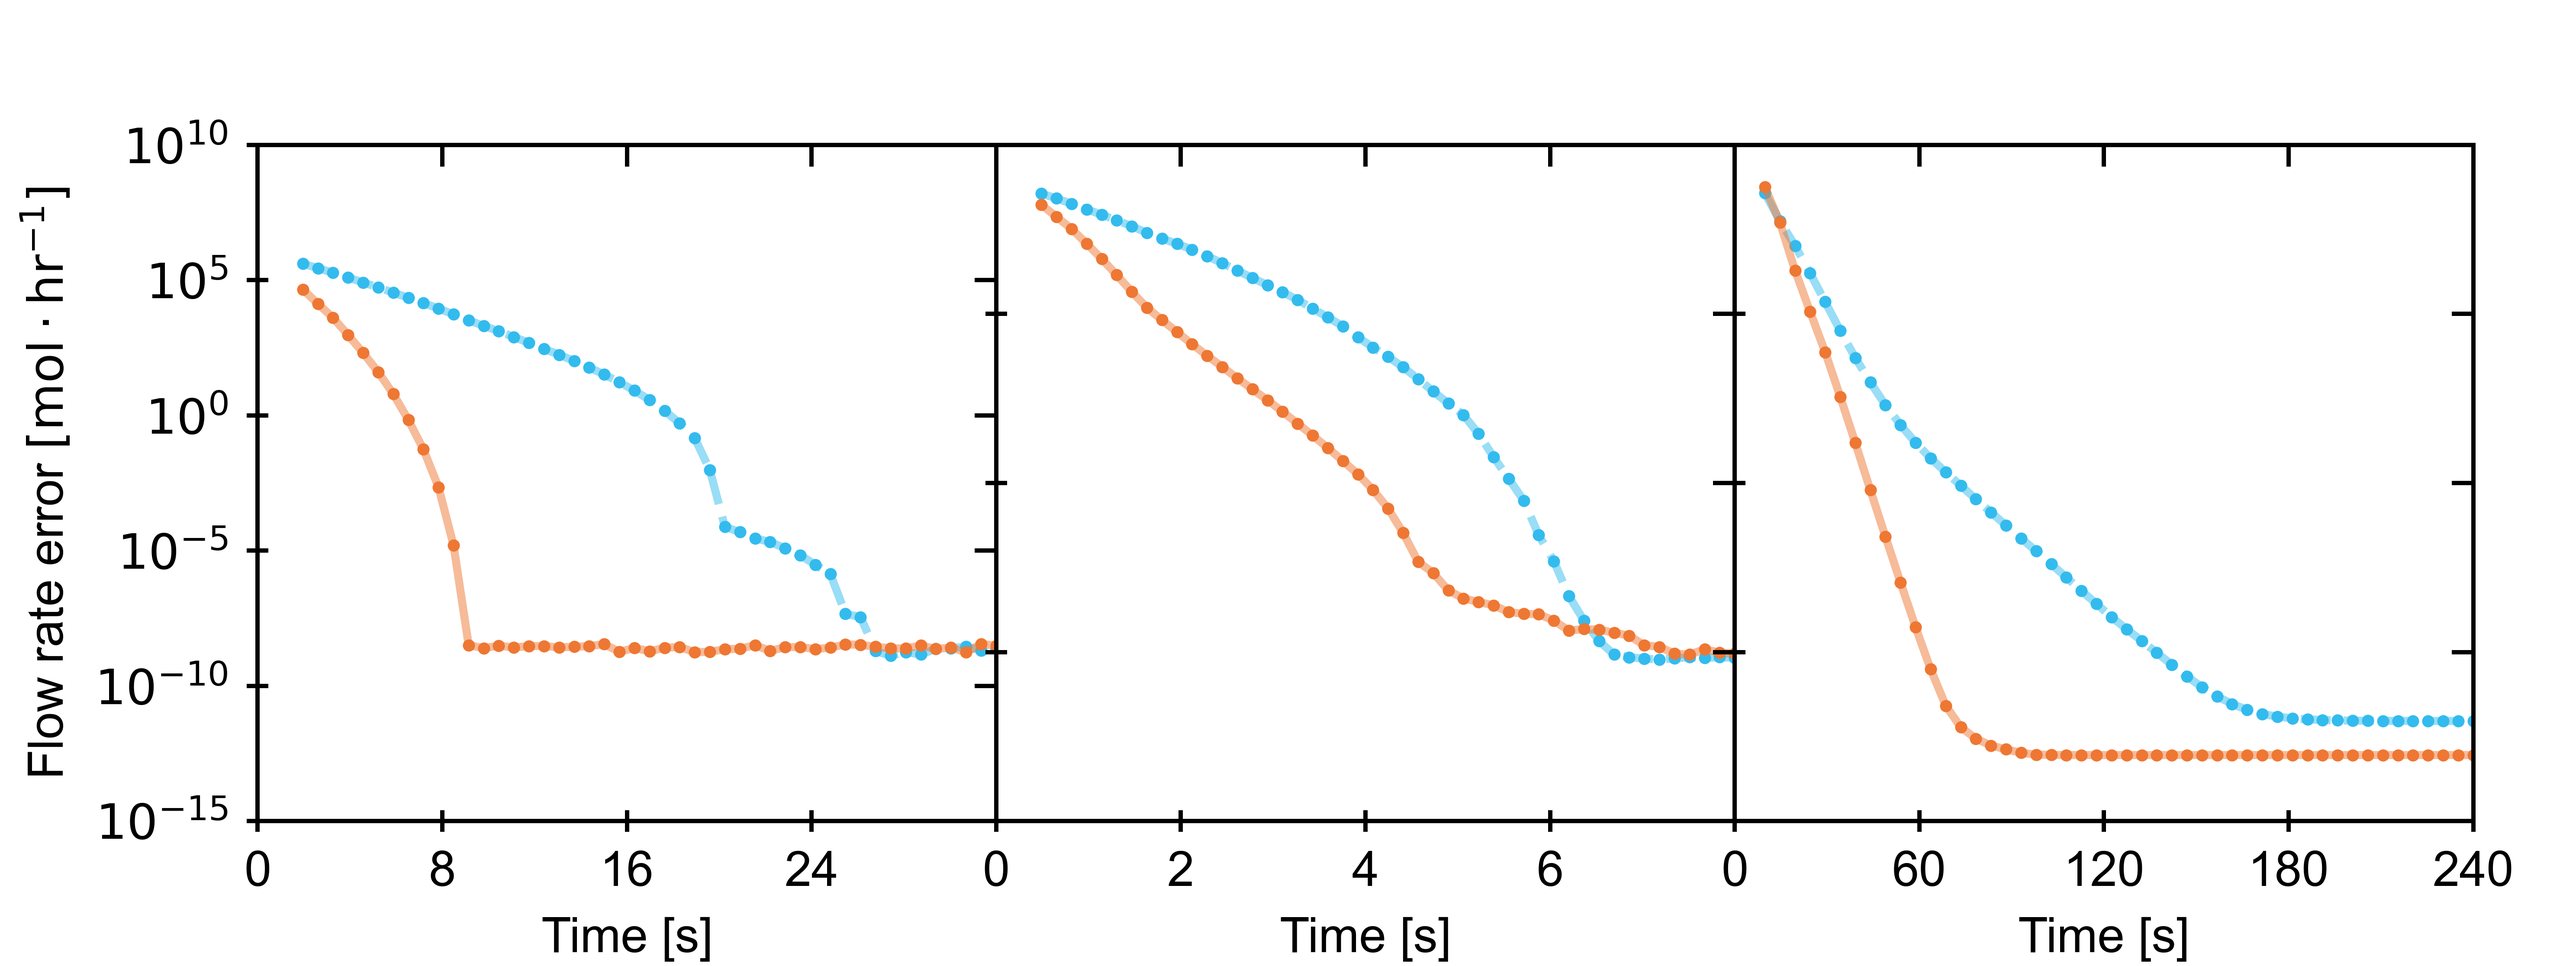
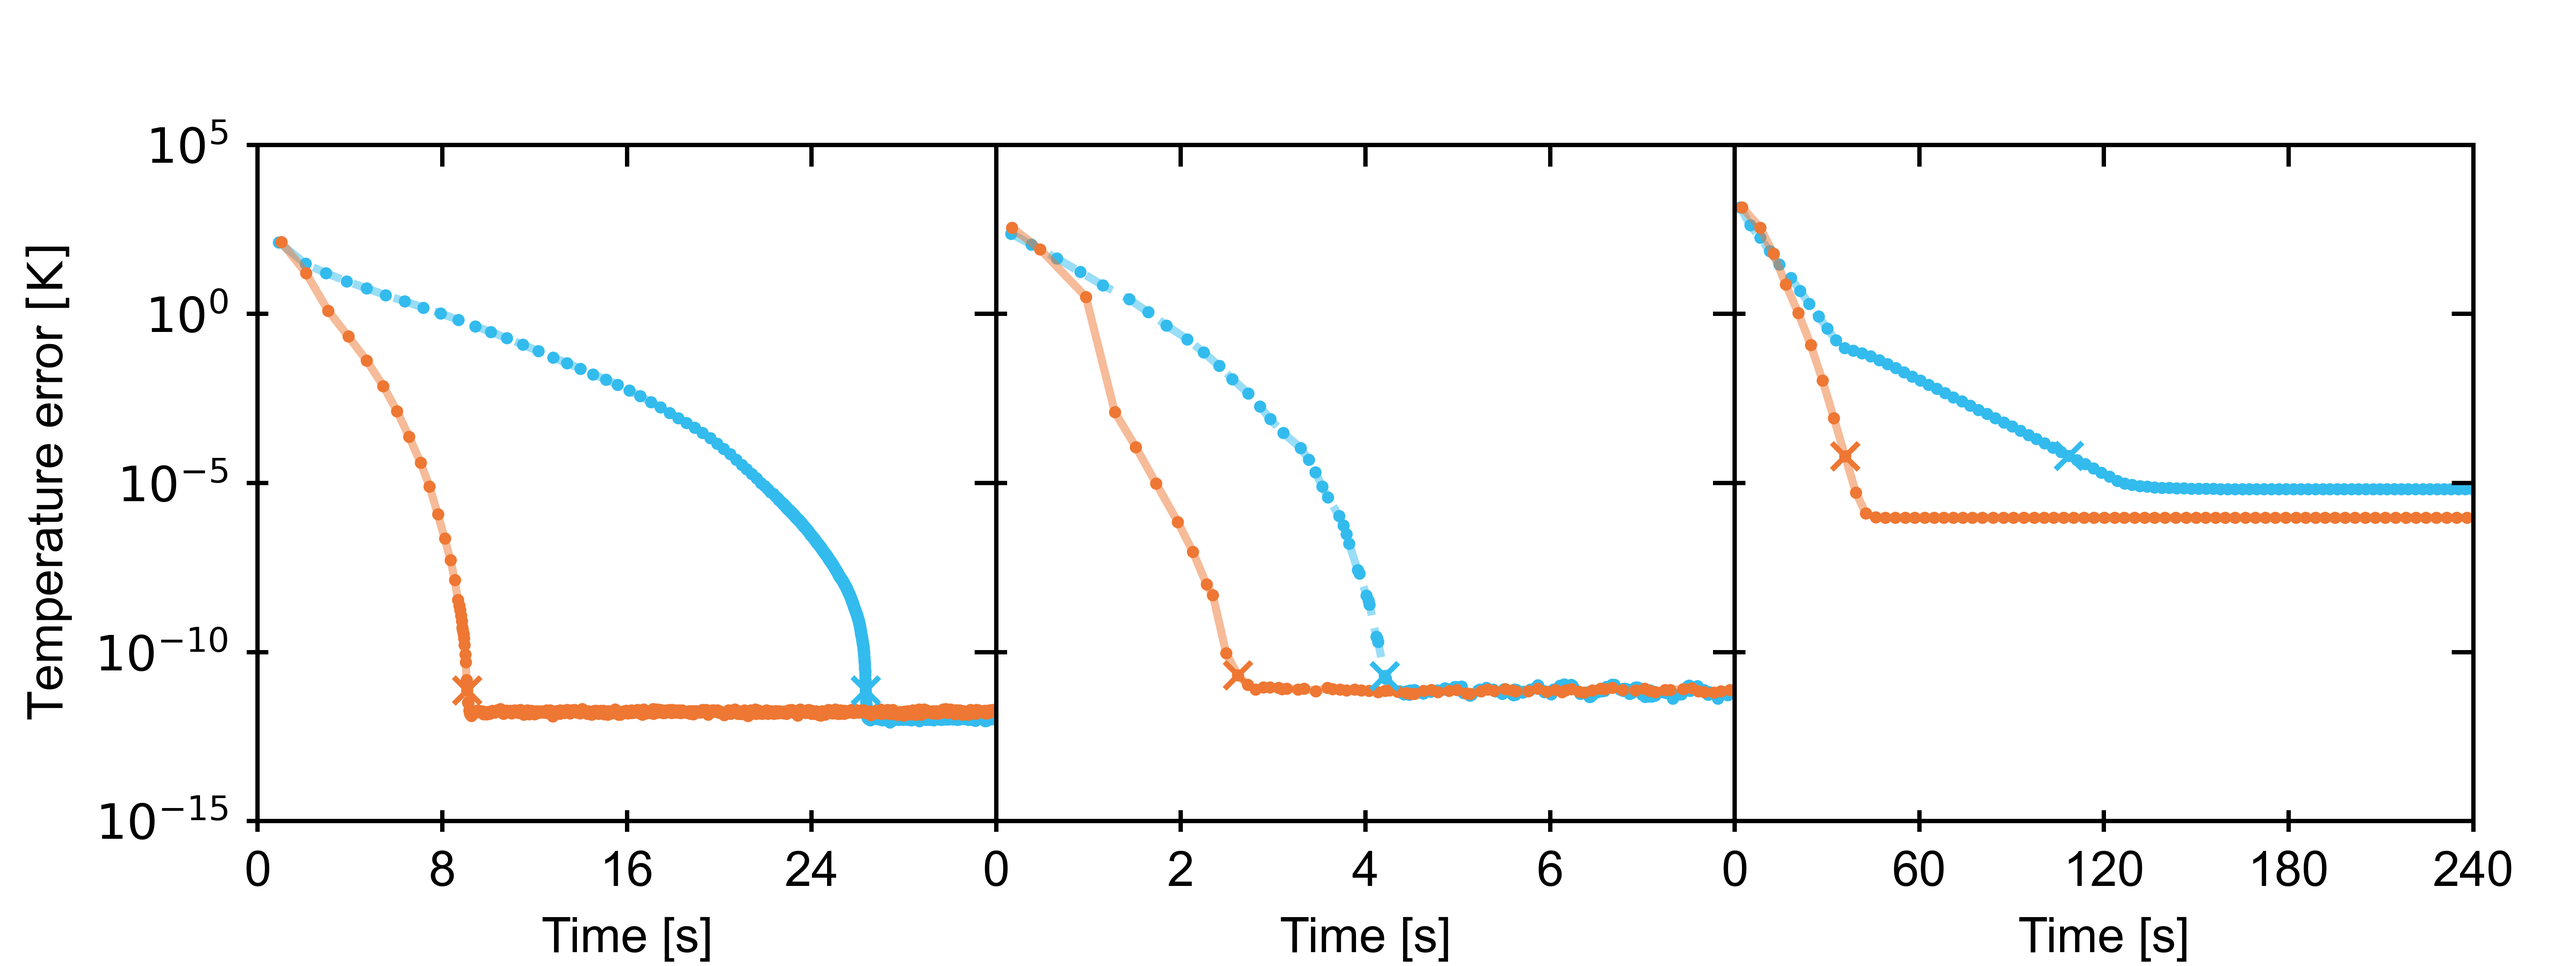
more work on PO

diff --git a/benchmark/profile.py b/benchmark/profile.py
@@ -22,6 +22,10 @@ import pickle
 import thermosteam as tmo
 from scipy.integrate import romb
 from scipy.optimize import minimize
+from warnings import warn
+from biosteam import report
+import openpyxl
+import json
 
 __all__ = (
     'BenchmarkModel',
@@ -32,6 +36,8 @@ __all__ = (
     'register',
     'all_systems',
     'test_convergence',
+    'save_stream_tables_and_specifications',
+    'save_simulation_errors',
     'Tracker'
 )
 
@@ -229,10 +235,17 @@ system_convergence_times = {}
 system_tickmarks = {}
 system_labels = {}
 system_yticks = {}
+try:
+    with open('system_stages.json') as f: system_stages = json.load(f)
+except:
+    system_stages = {}
 
 def register(name, title, time, tickmarks, label, yticks=None):
     f = getattr(systems, 'create_system_' + name, None) or getattr(systems, 'create_' + name + '_system')
     if yticks is None: yticks = [(-10, -5, 0, 5), (-10, -5, 0, 5)]
+    if name not in system_stages: 
+        sys = f(None)
+        system_stages[name] = len(sys.stages)
     all_systems[name] = f
     system_titles[name] = title
     system_convergence_times[name] = time
@@ -247,7 +260,8 @@ def register(name, title, time, tickmarks, label, yticks=None):
 register(
     'acetic_acid_simple', 'Subsystem',
     40, [0, 8, 16, 24, 32], 'AcOH\npartial\ndewatering',
-    [(-15, -10, -5, 0, 5, 10), (-15, -10, -5, 0, 5, 10)],
+    [(-15, -10, -5, 0, 5), (-15, -10, -5, 0, 5)],
+    # [(-15, -10, -5, 0, 5, 10), (-15, -10, -5, 0, 5, 10)],
 )
 register(
     'acetic_acid_complex_decoupled', 'Shortcut system',
@@ -256,8 +270,9 @@ register(
 )
 register(
     'acetic_acid_complex', 'Rigorous system',
-    500, [0, 60, 120, 180, 240], 'AcOH\nindustrial\ndewatering', 
-    [(-5, -2.5, 0, 2.5, 5), (-8, -5, -2, 1, 4)],
+    240, [0, 60, 120, 180, 240], 'AcOH\nindustrial\ndewatering', 
+    [(-15, -10, -5, 0, 5), (-15, -10, -5, 0, 5)],
+    # [(-5, -2.5, 0, 2.5, 5), (-8, -5, -2, 1, 4)],
 )
 # register(
 #     'alcohol_narrow_flash', 'Alcohol flash narrow',
@@ -269,12 +284,12 @@ register(
 # )
 register(
     'butanol_purification', 'Butanol purification',
-    1, [0, 0.2, 0.4, 0.6, 0.8, 1], 'BtOH\nseparation',
+    1, [0, 0.1, 0.2, 0.3, 0.4, 0.5], 'BtOH\nseparation',
     [(-15, -10, -5, 0, 5), (-15, -10, -5, 0, 5)],
 )
 register(
     'ethanol_purification', 'Ethanol purification',
-    0.2, [0, 0.05, 0.1, 0.15, 0.2], 'EtOH\nseparation',
+    0.2, [0, 0.03, 0.06, 0.09, 0.12], 'EtOH\nseparation',
     [(-15, -10, -5, 0, 5), (-15, -10, -5, 0, 5)],
 )
 # register(
@@ -291,9 +306,11 @@ register(
 # )
 register(
     'haber_bosch_process', 'Haber-Bosch',
-    0.03, [0, 0.007, 0.014, 0.021, 0.028], 'Haber-Bosch\nammonia\nproduction',
+    0.03, [0, 0.004, 0.010, 0.015, 0.020], 'Haber-Bosch\nammonia\nproduction',
     [[-10, -7.5, -5, -2.5, 0], [-10, -7.5, -5, -2.5, 0]],
 )
+
+with open('system_stages.json', 'w') as file: json.dump(system_stages, file)
 
 # %% Testing
 
@@ -339,16 +356,76 @@ def test_convergence(systems=None, alg=None, maxiter=None):
                             print(f'- Multiple steady stages for {s_sm}, {s_sm.sink.ins.index(s_sm)}-{s_sm.sink}: sm-{actual} po-{value}')
     return outs
 
+# %% Stream tables and specifications
+
+def save_stream_tables_and_specifications(systems=None):
+    if systems is None: systems = list(all_systems)
+    for sys in systems:
+        po = Tracker(sys, 'phenomena oriented')
+        for i in range(50): po.run()
+        with po.system.stage_configuration() as conf:
+            for i in conf.streams:
+                if i.ID == '': i.ID = ''
+        name = system_labels[sys].replace('\n', ' ')
+        file_name = f'{name}.xlsx'
+        file = os.path.join(simulations_folder, file_name)
+        po.system.save_report(
+            file=file,
+            sheets={
+                'Flowsheet',
+                'Stream table',
+                'Specifications',
+                'Reactions',
+            },
+            stage=True,
+        )
+
+# %% Simulation errors
+
+def save_simulation_errors(systems=None):
+    if systems is None: systems = list(all_systems)
+    values = []
+    for sys in systems:
+        file_name = f"{sys}_steady_state"
+        file = os.path.join(simulations_folder, file_name)
+        values.append([
+            Convergence(
+                all_systems[sys](i), file
+            ).benchmark
+            for i in ('phenomena-oriented', 'sequential-modular')
+        ])
+    df = pd.DataFrame(
+        values, 
+        [system_labels[i].replace('\n', ' ') for i in systems], 
+        ('Phenomena-based', 'Sequential modular')
+    )
+    file_name = 'Simulation times.xlsx'
+    file = os.path.join(simulations_folder, file_name)
+    df.to_excel(file)
+    return df
+
+
+# %% Convergence time
+
+def convergence_time(sm, po):
+    ysm = np.array(sm)
+    ypo = np.array(po)
+    cutoff = ysm.min() + 1
+    sm_index = sum(ysm > cutoff)
+    po_index = sum(ypo > cutoff)
+    return sm['Time'][sm_index], po['Time'][po_index]
+
+
 # %% Profiling and benchmarking utilities
 
 class ErrorPoint(NamedTuple):
     time: float; error: float
 
-default_steady_state_cutoff = 2
+default_steady_state_cutoff = 1
     
 def steady_state_error(profile, steady_state_cutoff=None):
     if steady_state_cutoff is None: steady_state_cutoff = default_steady_state_cutoff
-    minimum_error = np.log10(10 ** profile['Component flow rate error'][-1] + 10 ** profile['Temperature error'][-1])
+    minimum_error = np.log10(10 ** profile['Component flow rate error'][-1] + 10 ** profile['Temperature error'][-1]) 
     return minimum_error + steady_state_cutoff
     
 def benchmark(profile, steady_state_error=None):
@@ -356,9 +433,9 @@ def benchmark(profile, steady_state_error=None):
     time = profile['Time']
     error = np.log10(10 ** profile['Component flow rate error'] + 10 ** profile['Temperature error'])
     if np.isnan(error).any(): breakpoint()
-    error = interpolate.interp1d(error, time, bounds_error=False)(steady_state_error)
+    time = interpolate.interp1d(error, time, bounds_error=False)(steady_state_error)
     if np.isnan(error).any(): breakpoint()
-    return error 
+    return time 
     
 class Convergence:
     
@@ -381,6 +458,8 @@ class Convergence:
             flows = np.array(sum([i._imol._parent.data.rows for i in streams], []))
             Ts = np.array([i.T for i in streams])
             results = flows, Ts
+            # cfe, te = zip(*[i._simulation_error() for i in all_stages])
+            system.run()
             cfe, te = zip(*[i._simulation_error() for i in all_stages])
             benchmark = sum(cfe) + sum(te)
             with open(file, 'wb') as f: pickle.dump((*results, benchmark), f)
@@ -733,12 +812,15 @@ def division_mean_std(xdx, ydy):
 
 # %% Benchmark plot
 
-def plot_benchmark(systems=None, exclude=None, N=5, load=True, save=True):
+def plot_benchmark(systems=None, exclude=None, N=5, load=True, save=True, sort_by_stage=True, label_stages=True):
     if systems is None: systems = list(all_systems)
     if exclude is not None: systems = [i for i in systems if i not in exclude]
+    if sort_by_stage: systems = sorted(systems, key=lambda x: system_stages[x])
     n_systems = len(systems)
     results = np.zeros([n_systems, 3])
     Ns = N * np.ones(n_systems, int)
+    index = []
+    values = []
     for m, sys in enumerate(systems):
         N = Ns[m]
         time = system_convergence_times[sys]
@@ -804,11 +886,18 @@ def plot_benchmark(systems=None, exclude=None, N=5, load=True, save=True):
                 po_name = f'po_{time}_{sys}_profile.npy'
                 file = os.path.join(simulations_folder, po_name)
                 with open(file, 'wb') as f: pickle.dump(pos, f)
-        pos = pos[1:]
-        sms = sms[1:]
         cutoff = max([steady_state_error(i) for i in sms + pos])
         sms = np.array([benchmark(i, cutoff) for i in sms])
         pos = np.array([benchmark(i, cutoff) for i in pos])
+        values.append(pos)
+        name = system_labels[sys].replace('\n', ' ')
+        index.append(
+            (name, 'Phen.')
+        )
+        values.append(sms)
+        index.append(
+            (name, 'Seq. mod.')
+        )
         pos_mean_std = [np.mean(pos), np.std(pos)]
         sms_mean_std = [np.mean(sms), np.std(sms)]
         mean, std = division_mean_std(pos_mean_std, sms_mean_std)
@@ -826,9 +915,18 @@ def plot_benchmark(systems=None, exclude=None, N=5, load=True, save=True):
     # Assume only time matters from here on
     # for i, (sm, po) in enumerate(system_results):
     #     results[i] = uncertainty_percent(po['Time'], sm['Time'])
+    df = pd.DataFrame(
+        values, 
+        index=pd.MultiIndex.from_tuples(index),
+        columns=[str(i) for i in range(N)], 
+    )
+    file_name = 'Simulation times.xlsx'
+    file = os.path.join(simulations_folder, file_name)
+    df.to_excel(file)
+    
     n_rows = 1
     n_cols = 1
-    fs = 10
+    fs = 8
     bst.set_font(fs)
     bst.set_figure_size()
     fig, ax = plt.subplots(n_rows, n_cols)
@@ -842,7 +940,10 @@ def plot_benchmark(systems=None, exclude=None, N=5, load=True, save=True):
     yticks = (0, 25, 50, 75, 100, 125)
     yticklabels = [f'{i}%' for i in yticks]
     xticks = list(range(n_systems))
-    xticklabels = [system_labels[sys] for sys in systems]
+    if label_stages:
+        xticklabels = [system_labels[sys] + f'\n[{system_stages[sys]} stages]' for sys in systems]
+    else:
+        xticklabels = [system_labels[sys] for sys in systems]
     sm_index, = np.where(results[:, -1])
     po_index, = np.where(~results[:, -1].astype(bool))
     plt.errorbar([xticks[i] for i in sm_index], results[sm_index, 0], 
@@ -851,7 +952,7 @@ def plot_benchmark(systems=None, exclude=None, N=5, load=True, save=True):
     plt.errorbar([xticks[i] for i in po_index], results[po_index, 0], yerr=results[po_index, 1], color=cpo,
                  marker='s', linestyle='', capsize=5, capthick=1.5, ecolor=black)
     plt.axhline(y=100, color='grey', ls='--', zorder=-1)
-    plt.ylabel('Simulation time [%]')
+    plt.ylabel('Relative simulation time [%]')
     bst.utils.style_axis(
         ax, xticks=xticks, yticks=yticks,
         xticklabels=xticklabels,
@@ -867,11 +968,12 @@ def plot_benchmark(systems=None, exclude=None, N=5, load=True, save=True):
 
 # %%  Profile plot
 
-def dct_mean_profile(dcts: list[dict], keys: list[str], ub: float, n=50):
-    mean = {i: np.zeros(n) for i in keys}
-    tmin = np.min([np.min(i['Time']) for i in dcts])
-    t = np.linspace(0, ub, n)
-    goods = [np.zeros(n) for i in range(len(keys))]
+def dct_mean_profile(dcts: list[dict], keys: list[str], ub: float):
+    tmin = np.mean([np.min(i['Time']) for i in dcts])
+    size = np.min([len(i['Time']) for i in dcts])
+    t = np.array([i['Time'][:size] for i in dcts]).mean(axis=0)
+    mean = {i: np.zeros(size) for i in keys}
+    goods = [np.zeros(size) for i in range(len(keys))]
     for dct in dcts:
         for i, good in zip(keys, goods): 
             x = dct['Time']
@@ -893,29 +995,30 @@ def dct_mean_std(dcts: list[dict], keys: list[str]):
     return {i: (values[i].mean(), values[i].std()) for i in keys}
 
 def plot_profile(
-        systems=None, N=1, load=True, save=True
+        systems=None, N=1, load=True, save=True,
+        T=False,
     ):
     if systems is None: systems = list(all_systems)
     fs = 9
     bst.set_font(fs)
     keys = (
-        'Component flow rate error',
-        # 'Temperature error',
-        # 'Component flow rate',
-        # 'Stream temperature',
-        # 'Stripping factor',
-        # 'Material balance',
-        # 'Energy balance',
+        'Temperature error' if T else 'Component flow rate error' ,
     )
+    # 'Temperature error',
+    # 'Component flow rate',
+    # 'Stream temperature',
+    # 'Stripping factor',
+    # 'Material balance',
+    # 'Energy balance',
     units = (
-        r'$[\mathrm{mol} \cdot \mathrm{hr}^{\mathrm{-1}}]$',
-        # r'$[\mathrm{K}]$',
-        # r'$[\mathrm{mol} \cdot \mathrm{hr}^{\mathrm{-1}}]$',
-        # r'$[\mathrm{K}]$',
-        # r'$[-]$',
-        # r'$[\mathrm{mol} \cdot \mathrm{hr}^{\mathrm{-1}}]$',
-        # r'$[\mathrm{K}]$',
+        r'$[\mathrm{K}]$' if T else r'$[\mathrm{mol} \cdot \mathrm{hr}^{\mathrm{-1}}]$',
     )
+    # r'$[\mathrm{K}]$',
+    # r'$[\mathrm{mol} \cdot \mathrm{hr}^{\mathrm{-1}}]$',
+    # r'$[\mathrm{K}]$',
+    # r'$[-]$',
+    # r'$[\mathrm{mol} \cdot \mathrm{hr}^{\mathrm{-1}}]$',
+    # r'$[\mathrm{K}]$',
     n_rows = len(units)
     n_cols = len(systems)
     if n_cols >= 2: 
@@ -985,8 +1088,16 @@ def plot_profile(
         sms = sms[1:]
         tub = system_tickmarks[sys][-1]
         tub = min(tub, min([dct['Time'][-1] for dct in sms]), min([dct['Time'][-1] for dct in pos]))
+        for dct in sms + pos:
+            for key in dct:
+                if key == 'Time': continue
+                dct[key] = 10 ** np.array(dct[key])
         sm = dct_mean_profile(sms, keys, tub)
         po = dct_mean_profile(pos, keys, tub)
+        for dct in (sm, po):
+            for key in dct:
+                if key == 'Time': continue
+                dct[key] = np.log10(dct[key])
         csm = Color(fg='#33BBEE').RGBn
         cpo = Color(fg='#EE7733').RGBn
         labels = {
@@ -1014,6 +1125,9 @@ def plot_profile(
             ypo = np.array(po[i])
             ysm = gaussian_filter(ysm, 0.2)
             ypo = gaussian_filter(ypo, 0.2)
+            cutoff = ysm.min() + 1
+            sm_index = sum(ysm > cutoff)
+            po_index = sum(ypo > cutoff)
             tsm = np.array(sm['Time'])
             tpo = np.array(po['Time'])
             if ms: 
@@ -1024,6 +1138,11 @@ def plot_profile(
             plt.plot(tsm, ysm, lw=0, marker='.', color=csm, markersize=2.5)
             plt.plot(tpo, ypo, lw=0, marker='.', color=cpo, markersize=2.5)
             plt.plot(tpo, ypo, '-', color=cpo, lw=1.5, alpha=0.5)
+            plt.plot(tsm[sm_index], ysm[sm_index], lw=0, marker='x', color=csm, markersize=5)
+            plt.plot(tpo[po_index], ypo[po_index], lw=0, marker='x', color=cpo, markersize=5)
+            print(sm_index, po_index)
+            # plt.annotate(str(sm_index), (tsm[sm_index], ysm[sm_index]), (tsm[sm_index], ysm[sm_index] - 1.5), color=csm)
+            # plt.annotate(str(po_index), (tpo[po_index], ypo[po_index]), (tpo[po_index], ypo[po_index] + 0.5), color=cpo)
             yticklabels = m == 0
             yticks = yticks_list[n]
             if yticklabels:
@@ -1094,4 +1213,4 @@ def plot_profile(
         name = f'PO_SM_{system_names}_profile.{i}'
         file = os.path.join(images_folder, name)
         plt.savefig(file, dpi=900, transparent=True)
-    return fig, all_axes, sms, pos
+    # return fig, all_axes, sms, pos
